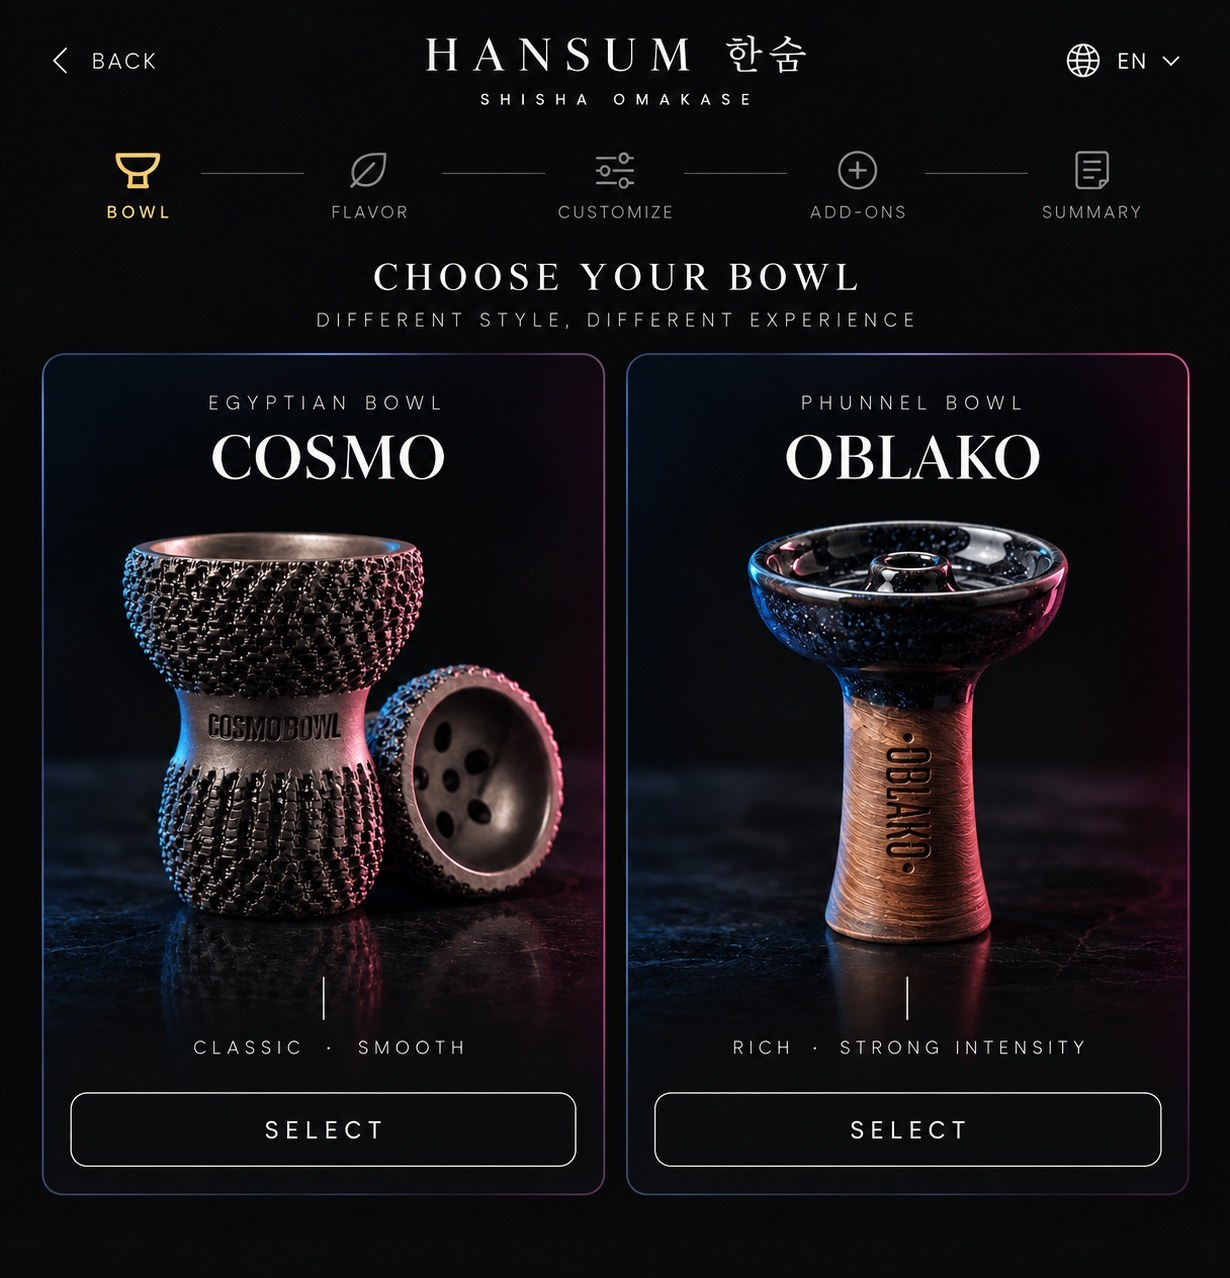
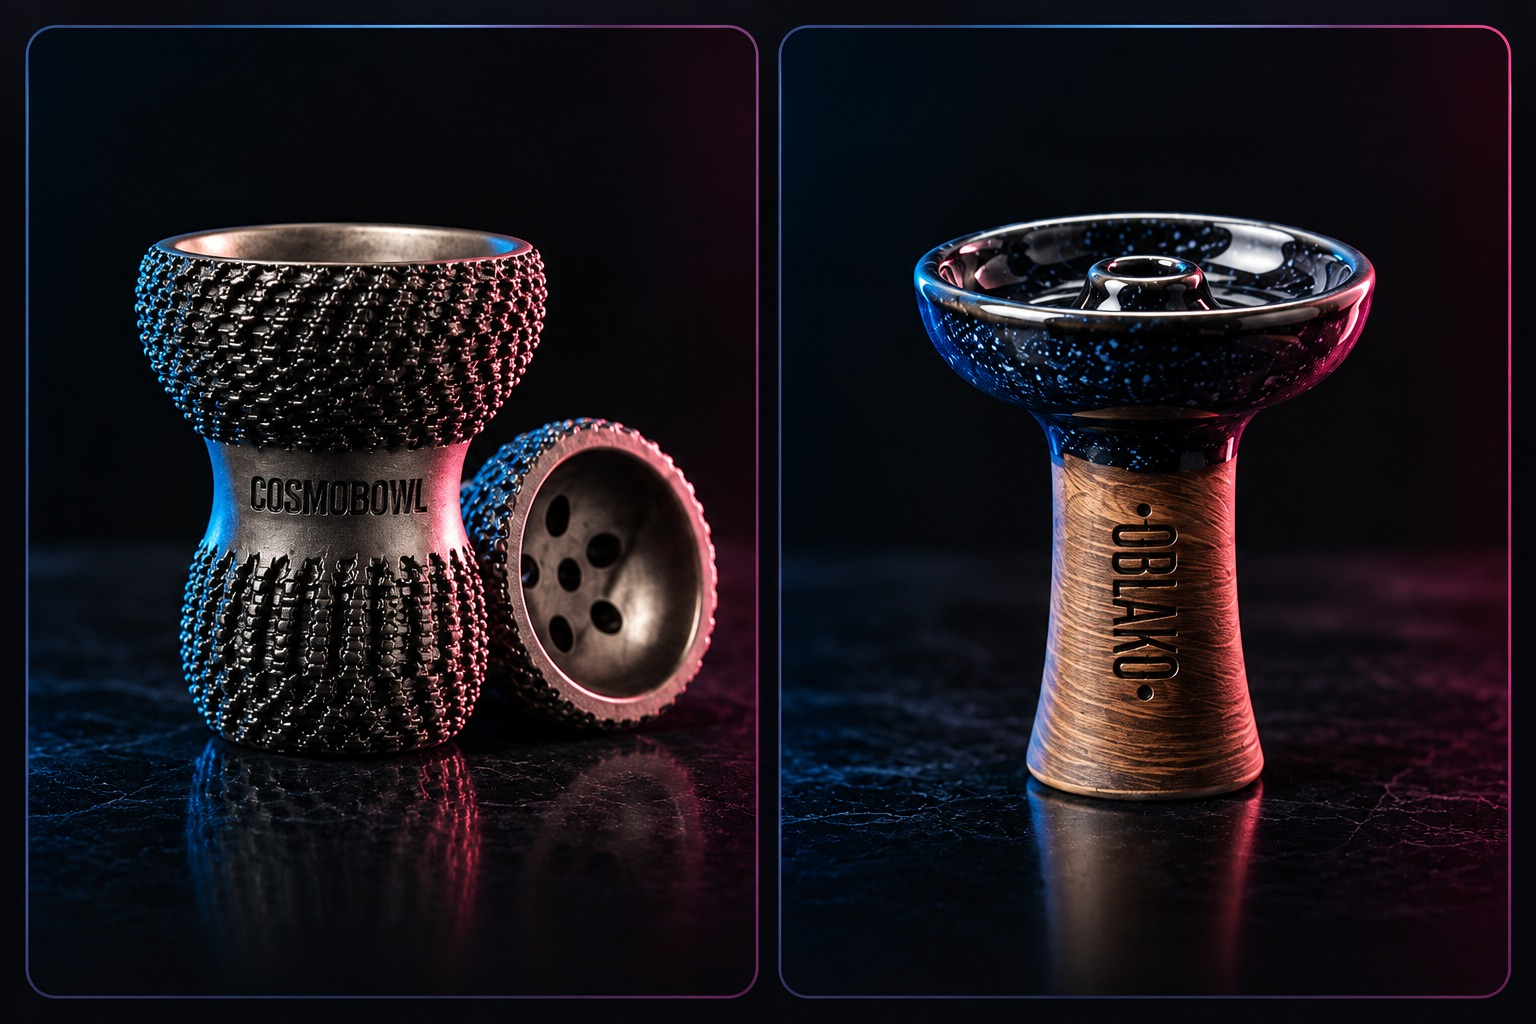
Add files via upload

diff --git a/index.html b/index.html
@@ -100,7 +100,7 @@
 
 <section id="coffee" class="coffee">
   <div class="coffee-image-wrap">
-    <img src="images/coffee.jpg" alt="HANSUM signature matcha coffee">
+    <img src="images/coffee.jpg" alt="HANSUM -86°C Coffee">
     <div class="degree">−86<span>°C</span></div>
   </div>
   <div class="coffee-copy section">

diff --git a/README.md b/README.md
@@ -27,3 +27,9 @@ Connect the GitHub repository and use:
 - Original uploaded HANSUM photos are retained locally.
 - Each location is clickable and opens Google Maps.
 - Da Nang location links to the HANSUM Da Nang Google Maps listing.
+
+## V5 changes
+- Replaced the -86°C Coffee image with the latest uploaded HANSUM -86°C Coffee photo.
+- Bowl showcase uses a clean product image without ordering UI text/buttons.
+- No prices are displayed.
+- Locations remain linked to Google Maps.
